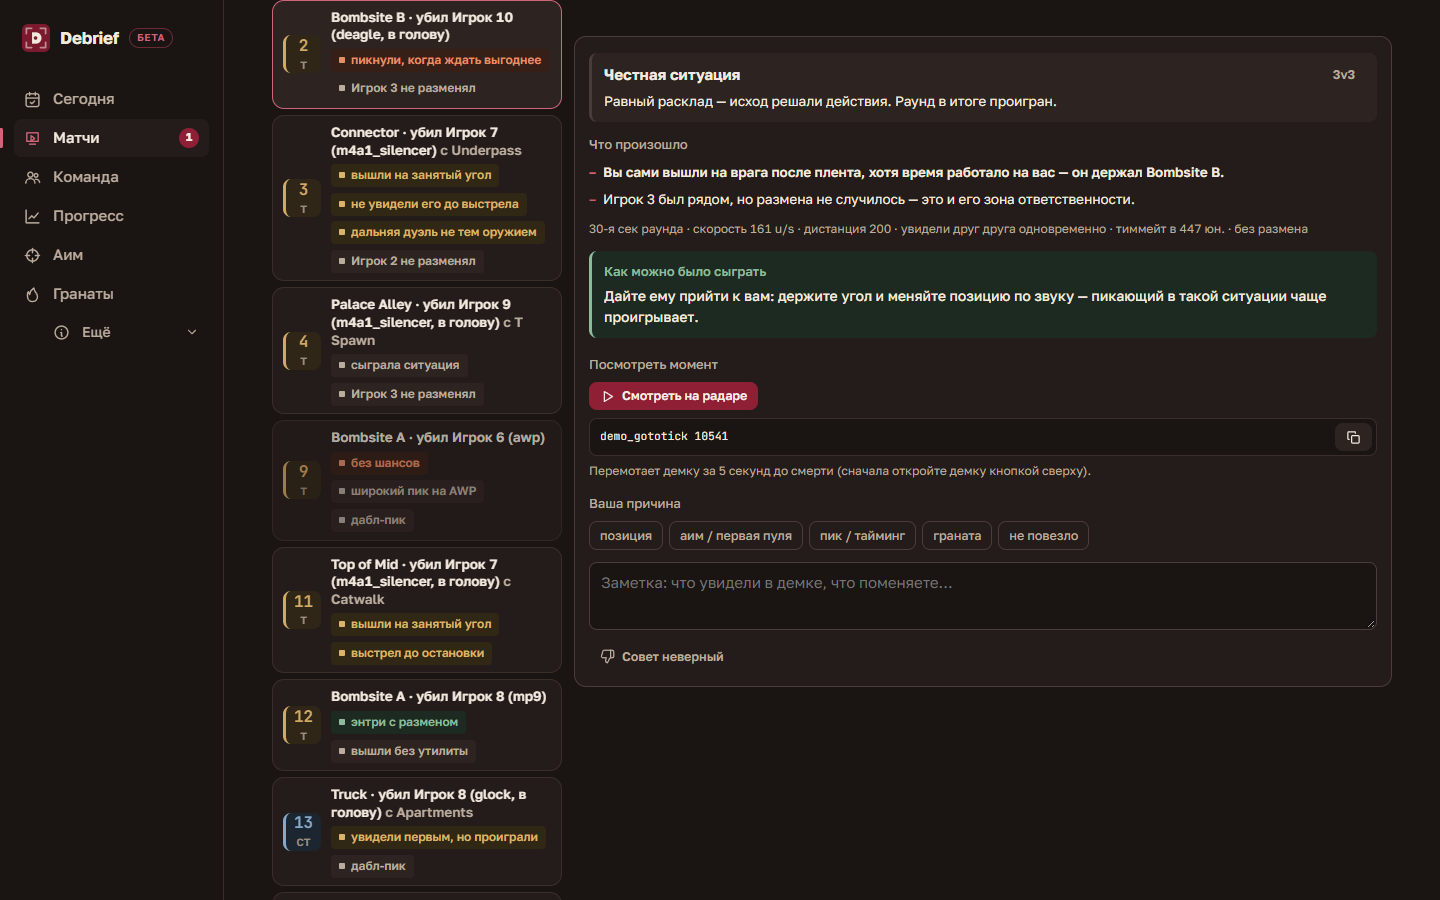
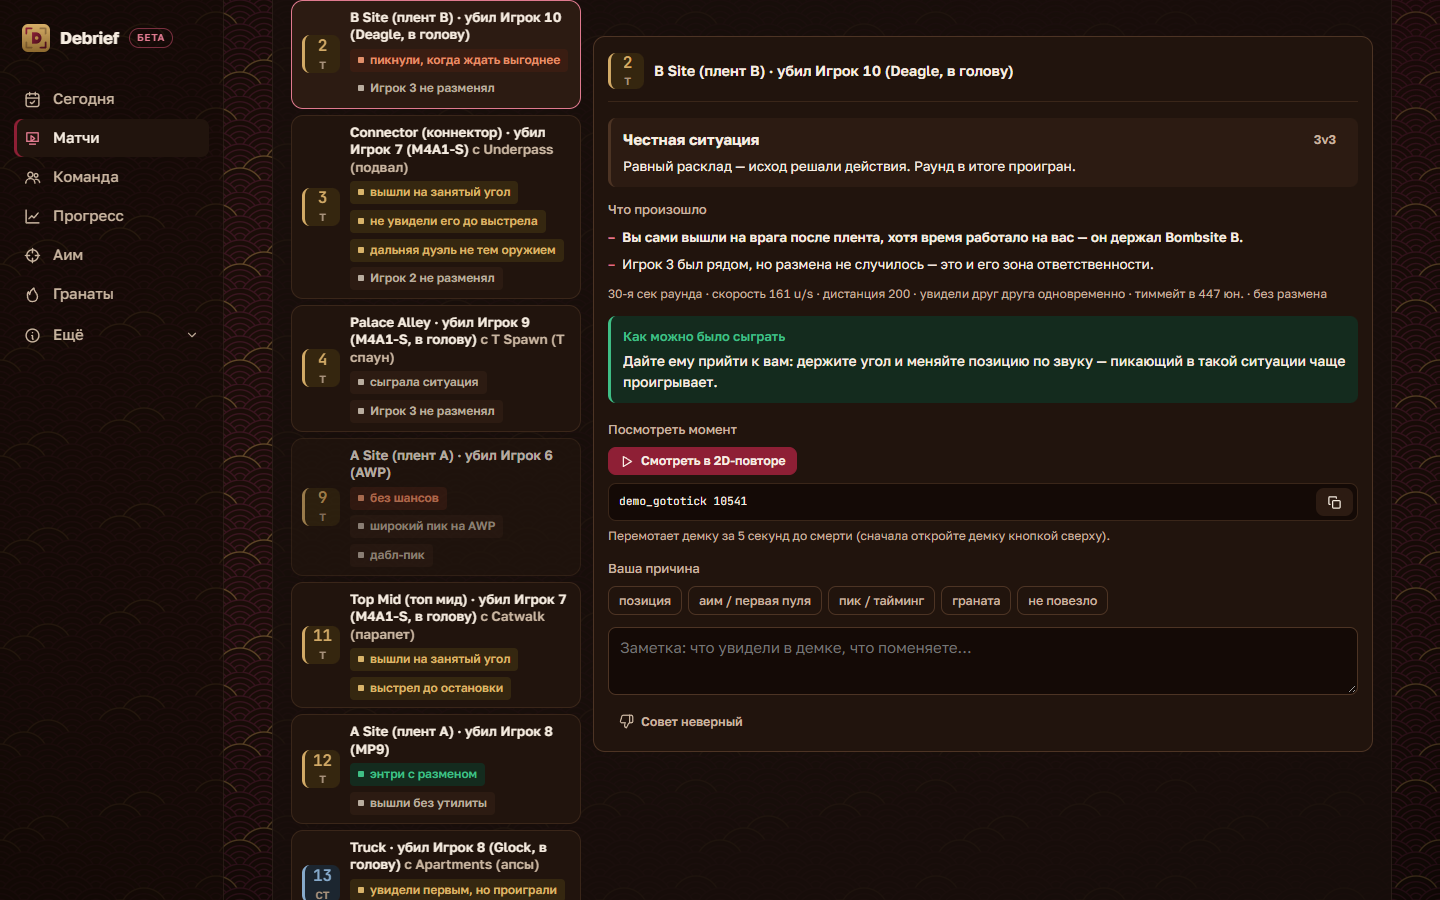
Update screenshots (new 0.9.4 design) and CHANGELOG for 0.9.4-beta

diff --git a/CHANGELOG.md b/CHANGELOG.md
@@ -4,6 +4,15 @@
 после обновления (один раз), и они же — описание релиза на GitHub. 3–6 пунктов на версию. Только то, что игрок
 заметит сам, — без внутренних названий этапов работы, имён файлов и путей (сборка релиза такое не пропустит).
 
+## 0.9.4-beta
+
+- Новый 2D-повтор: цветная карта с подсвеченными плентами и переключением этажей, зум колесом и перетаскивание мышью, боковые составы команд с HP, бронёй, оружием и гранатами, килфид, таймлайн с событиями, объёмные дымы и огонь молотова.
+- Дуэли «Кто кого» и сводка матча: матрица встреч между игроками с переходом в нужный момент повтора, а также первые дуэли раундов, клатчи 1vN, мультикиллы и красивые фраги (ноускоуп, в воздухе, через стену или смок) с выносом на карточку «Поделиться».
+- Автоподхват демок FASTCUP из папки загрузок с автоматическим исключением ножевого раунда выбора стороны.
+- Точнее разбор позиций и советов: расширенные зоны на всех основных картах, учёт дымов, позиция соперника в момент первого контакта и выбор привычных названий позиций в настройках.
+- Длинная разминка в плане: выбор длины разминки перед матчами (10, 25 или до 60 минут) с учётом самочувствия, отдыха и времени на игры, плюс необязательная оценка «Как игралось?» и подсказка лучшей длительности по вашим отметкам.
+- Настройки сохраняются автоматически, добавлена опция «Помогать улучшать разбор» для отметки точности выводов по своим матчам и исправлен импорт результатов Aim Lab на русской Windows.
+
 ## 0.9.3-beta
 
 - Демки с нового патча CS2 снова разбираются. Если CS2 опять обновится раньше Debrief, будет понятное «обновите Debrief», а не «демка повреждена».
